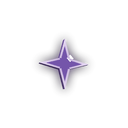
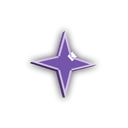
sigil3d quality pass: 4x supersample + 240px/unit fill; ctl slimmed to 346 lines (selftest green: packs+heat+offscreen frame)

Changed region(s): [[0.2188, 0.2188, 0.7812, 0.7812]]

diff --git a/cursor_ctl.py b/cursor_ctl.py
@@ -10,26 +10,19 @@ gi.require_version("GdkPixbuf", "2.0")
 from gi.repository import Gtk, Gdk, GdkPixbuf, GLib
 HERE = os.path.dirname(os.path.abspath(__file__))
 sys.path.insert(0, HERE)
-from magic_core import (WiggleDetector, AuraMachine, StarField,
-                        load_packs, decode_frames, load_config)
-
+from magic_core import WiggleDetector, AuraMachine, StarField, load_packs, decode_frames, load_config
 CFG_PATH = os.path.expanduser("~/.config/dusky/cursor-magic/config.json")
 USER_PACKS = os.path.expanduser("~/.config/dusky/cursor-magic/packs")
 REPO_PACKS = os.path.join(HERE, "packs")
 PIDFILE = "/tmp/magic_ctl.pid"
 PROFILES = ("macos", "snappy", "smooth", "reduced")
-SLIDERS = (("peak_scale", "motion", 1.5, 4.0, 0.05),
-           ("gain", "wiggle", 0.1, 1.0, 0.01),
-           ("arm_heat", "wiggle", 0.2, 0.95, 0.01),
-           ("tau_s", "wiggle", 0.1, 1.5, 0.01))
-
-def user_cfg():
+SLIDERS = (("peak_scale", "motion", 1.5, 4.0, 0.05), ("gain", "wiggle", 0.1, 1.0, 0.01),
+           ("arm_heat", "wiggle", 0.2, 0.95, 0.01), ("tau_s", "wiggle", 0.1, 1.5, 0.01))
+def user_cfg(path=CFG_PATH):
     try:
-        with open(CFG_PATH) as f:
-            return json.load(f)
+        with open(path) as f: return json.load(f)
     except Exception:
         return {}
-
 def write_cfg(**kv):
     """Atomic merge-write; daemon sees the mtime bump and reloads."""
     cfg = user_cfg()
@@ -42,7 +35,6 @@ def write_cfg(**kv):
         json.dump(cfg, f, indent=2); f.flush(); os.fsync(f.fileno())
     os.replace(tmp, CFG_PATH)
     return cfg
-
 def pid_alive():
     try:
         with open(PIDFILE) as f: pid = int(f.read().strip())
@@ -50,12 +42,9 @@ def pid_alive():
         return os.path.isdir(f"/proc/{pid}")     # our pidfile only — never scan names
     except Exception:
         return False
-
 # ---- preview state + paint (shared by live window and --selftest) ----------
-
 def new_state(cfg):
-    mo = cfg["motion"]
-    st = types.SimpleNamespace()
+    mo = cfg["motion"]; st = types.SimpleNamespace()
     st.cfg, st.wig = cfg, WiggleDetector(**cfg["wiggle"])
     st.aura = AuraMachine(peak_scale=mo["peak_scale"],
                           start_scale=mo["start_scale"],
@@ -66,12 +55,10 @@ def new_state(cfg):
     st.pixbufs, st.durations, st.total, st.s_time = [], [], 0.0, 0.0
     st.sprite_on = False
     return st
-
 def all_emotions():
     merged = {}
     for d in (REPO_PACKS, USER_PACKS): merged.update(load_packs(d))
     return merged
-
 def load_sprite(st, name):
     st.pixbufs, st.sprite_on, st.total = [], False, 0.0
     for pack in all_emotions().values():
@@ -85,17 +72,14 @@ def load_sprite(st, name):
             st.durations = [max(0.02, x) for x in durs]
             st.total = float(sum(st.durations))
             return
-
 def tick_state(st, t, pt):
     """Feed preview-local coords to the REAL WiggleDetector -> heat -> aura."""
-    if pt:
-        if st.wig.feed(t, *pt) or st.wig.rev_count != st.rev:
-            st.rev = st.wig.rev_count
-            st.stars.burst(t, st.cfg.get("stars", {}).get("per_burst", 10))
+    if pt and (st.wig.feed(t, *pt) or st.wig.rev_count != st.rev):
+        st.rev = st.wig.rev_count
+        st.stars.burst(t, st.cfg.get("stars", {}).get("per_burst", 10))
     st.aura.update(t, st.wig.heat)
     st.sprite_on = st.wig.heat >= st.wig.arm_heat and bool(st.pixbufs)
     if st.sprite_on: st.s_time += 0.016
-
 def _star(cr, x, y, size, rot, al, col):
     cr.save(); cr.translate(x, y); cr.rotate(rot)
     for k in range(8):
@@ -105,7 +89,6 @@ def _star(cr, x, y, size, rot, al, col):
     cr.close_path(); cr.set_source_rgba(*col, al); cr.fill()
     cr.arc(0, 0, size * 0.28, 0, 2 * math.tau)
     cr.set_source_rgba(1, 1, 1, al * 0.9); cr.fill(); cr.restore()
-
 def paint(cr, st):
     """Mirror of the daemon's paint at 260px — same gradients/stars/particles."""
     C = st.C; cx, cy = st.center
@@ -151,22 +134,22 @@ def paint(cr, st):
         _star(cr, cx + rad * math.cos(ang) * s, cy + rad * math.sin(ang) * 0.85 * s,
               size * 0.6, rot, al, scol)
     cr.set_operator(cairo.OPERATOR_OVER)
-
 # ---- window ----------------------------------------------------------------
-
 CSS = b"""
-window{background:#141220;color:#e6e2f5}
-.card{background:#1c1930;border:1px solid #322c52;border-radius:14px;padding:10px}
-.title{font-size:15px;font-weight:bold;color:#cabff5}
-.hint{color:#8f86b8;font-size:11px}
-button{background:#2b2547;color:#e6e2f5;border:1px solid #4a3f7a;border-radius:12px;padding:8px}
-button:hover{background:#372f5c}
-list,row{background:#1c1930;color:#e6e2f5;border-radius:10px}
-row:selected{background:#3d3468}
-scale trough{background:#2b2547;border-radius:8px;min-height:6px}
-scale slider{background:#cabff5;border-radius:8px;min-height:14px;min-width:14px}
+window{background:#141220;color:#e6e2f5} \
+.card{background:#1c1930;border:1px solid #322c52;border-radius:14px;padding:10px} \
+.title{font-size:15px;font-weight:bold;color:#cabff5} \
+.hint{color:#8f86b8;font-size:11px} \
+button{background:#2b2547;color:#e6e2f5;border:1px solid #4a3f7a;border-radius:12px;padding:8px} \
+button:hover{background:#372f5c} \
+list,row{background:#1c1930;color:#e6e2f5;border-radius:10px} \
+row:selected{background:#3d3468} \
+scale trough{background:#2b2547;border-radius:8px;min-height:6px} \
+scale slider{background:#cabff5;border-radius:8px;min-height:14px;min-width:14px} \
 radiobutton label{color:#e6e2f5}
 """
+def cls(w, c):
+    w.get_style_context().add_class(c); return w
 
 class Studio(Gtk.Window):
     def __init__(self):
@@ -191,14 +174,11 @@ class Studio(Gtk.Window):
         self._src = GLib.timeout_add(16, self._tick)     # 60fps preview
         GLib.timeout_add(750, self._poll)                # /proc status dot
         self.show_all()
-
     def _card(self, title):
-        box = Gtk.Box(orientation=Gtk.Orientation.VERTICAL, spacing=6,
-                      css_classes=["card"])
-        box.pack_start(Gtk.Label(label=title, xalign=0, css_classes=["title"]),
+        box = cls(Gtk.Box(orientation=Gtk.Orientation.VERTICAL, spacing=6), "card")
+        box.pack_start(cls(Gtk.Label(label=title, xalign=0), "title"),
                        False, False, 0)
         return box
-
     def _header(self):
         box = Gtk.Box(spacing=10)
         self.dot = Gtk.Label(label="●")
@@ -206,10 +186,8 @@ class Studio(Gtk.Window):
         self.toggle.connect("clicked", self._on_toggle)
         box.pack_start(self.dot, False, False, 0)
         box.pack_start(self.toggle, False, False, 0)
-        box.pack_start(Gtk.Label(label="shake the preview — the aura is alive ✧",
-                                 css_classes=["hint"]), True, True, 0)
+        box.pack_start(cls(Gtk.Label(label="shake the preview — the aura is alive ✧"), "hint"), True, True, 0)
         return box
-
     def _motion_card(self):
         mo = self._card("✧ Motion")
         row = Gtk.Box(spacing=8); self.radios = {}
@@ -233,7 +211,6 @@ class Studio(Gtk.Window):
             r.pack_start(s, True, True, 0); r.pack_start(lab, False, False, 0)
             mo.pack_start(r, False, False, 0)
         return mo
-
     def _sprite_card(self):
         sp = self._card("☾ Soul sprite")
         self.packs = Gtk.ListBox()
@@ -246,7 +223,6 @@ class Studio(Gtk.Window):
         ib.connect("clicked", self._import)
         sp.pack_start(ib, False, False, 0)
         return sp
-
     def _preview_card(self):
         box = self._card("✦ Live preview — wiggle here")
         eb = Gtk.EventBox()
@@ -258,25 +234,20 @@ class Studio(Gtk.Window):
         eb.connect("leave-notify-event", lambda *_: setattr(self, "mouse", None))
         box.pack_start(eb, False, False, 0)
         return box
-
     # behaviour ---------------------------------------------------------------
     def _tick(self):
         tick_state(self.st, time.perf_counter(), self.mouse)
         self.da.queue_draw()
         return True
-
     def _poll(self):
         up = pid_alive()
-        self.dot.override_color(Gtk.StateFlags.NORMAL,
-                                Gdk.RGBA(.55, .9, .6, 1) if up else Gdk.RGBA(.85, .4, .5, 1))
+        self.dot.set_markup(f'<span foreground="{"#8ce699" if up else "#d96680"}">●</span>')
         self.toggle.set_label("Put the spell to sleep" if up else "Wake the magic")
         return True
-
     def _on_toggle(self, _b):
         if pid_alive():                                   # OFF: kill our pidfile only
             with open(PIDFILE) as f: os.kill(int(f.read().strip()), signal.SIGTERM)
-            os.remove(PIDFILE)
-            write_cfg(disabled=True)
+            os.remove(PIDFILE); write_cfg(disabled=True)
         else:                                             # ON: enable + launch detached
             write_cfg(disabled=False)
             log = open("/tmp/magic_ctl.log", "ab")
@@ -285,18 +256,14 @@ class Studio(Gtk.Window):
                                  stdout=log, stderr=log)
             with open(PIDFILE, "w") as f: f.write(str(p.pid))
         self._poll()
-
     def _apply(self):
         self.cfg = load_config(CFG_PATH)
         self.st = new_state(self.cfg); load_sprite(self.st, self.cfg.get("emotion"))
-
     def _profile(self, btn, name):
         if btn.get_active():
             write_cfg(motion={"profile": name}); self._apply()
-
     def _slider(self, key, val):
         write_cfg(**{self.sliders[key][1]: {key: round(val, 3)}}); self._apply()
-
     def _refresh_packs(self):
         for c in self.packs.get_children(): self.packs.remove(c)
         self.rows = []
@@ -319,13 +286,11 @@ class Studio(Gtk.Window):
         for i, (emo, _) in enumerate(self.rows):
             if emo == self.cfg.get("emotion"):
                 self.packs.select_row(self.packs.get_row_at_index(i))
-
     def _pick(self, _lb, row):
         if row:
             emo, pname = self.rows[row.get_index()]
             write_cfg(emotion=emo, sprite_pack=pname)
             load_sprite(self.st, emo)
-
     def _import(self, _b):
         fc = Gtk.FileChooserDialog(title="Import a sprite", transient_for=self,
                                    action=Gtk.FileChooserAction.OPEN)
@@ -343,25 +308,16 @@ class Studio(Gtk.Window):
         os.makedirs(os.path.dirname(dst), exist_ok=True)
         if os.path.abspath(src) != os.path.abspath(dst): shutil.copy2(src, dst)
         mf = os.path.join(d, "manifest.json")
-        m = user_cfg_at(mf); m.setdefault("emotions", {})[stem] = \
+        m = user_cfg(mf); m.setdefault("emotions", {})[stem] = \
             {"type": ext, "path": f"{stem}/{os.path.basename(src)}"}
         tmp = mf + ".tmp"
         with open(tmp, "w") as f: json.dump(m, f, indent=1)
         os.replace(tmp, mf)
         self._refresh_packs()
-
     def _quit(self, *_):
         if self._src: GLib.source_remove(self._src)
         Gtk.main_quit()
-
-def user_cfg_at(path):
-    try:
-        with open(path) as f: return json.load(f)
-    except Exception:
-        return {}
-
 # ---- selftest ----------------------------------------------------------------
-
 def selftest():
     cfg = load_config(CFG_PATH); print("OK config loaded")
     merged = all_emotions()
@@ -382,11 +338,9 @@ def selftest():
     surf.write_to_png("/tmp/ctl_selftest.png")
     print("OK offscreen frame /tmp/ctl_selftest.png")
     print("OK selftest passed")
-
 def main():
     if "--selftest" in sys.argv[1:]:
         selftest(); return
     Studio(); Gtk.main()
-
 if __name__ == "__main__":
     main()

diff --git a/scripts/render3d.py b/scripts/render3d.py
@@ -18,10 +18,10 @@ PACK = os.path.normpath(os.path.join(HERE, "..", "packs", "sigil3d"))
 FRAMES_DIR = os.path.join(PACK, "frames")
 
 OUT = 128            # final sprite size
-SS = 3               # supersample (384 render -> LANCZOS -> 128): no jaggies
+SS = 4               # supersample (512 render -> LANCZOS -> 128): no jaggies
 CANVAS = OUT * SS
 N_FRAMES = 24
-FOCAL, CAM_Z, PPU = 5.0, 9.0, 135.0       # persp strength, camera z, px/unit
+FOCAL, CAM_Z, PPU = 5.0, 9.0, 240.0       # persp strength, camera z, px/unit
 TILT = -0.16                              # fixed x-tilt: shows top bevel, 3/4 view
 R_OUT, R_IN, HZ = 1.0, 0.30, 0.12         # star outer/inner radius, half-thick
 GEM = (0.22, 0.22, HZ + 0.001)            # chibi highlight diamond, off-axis
